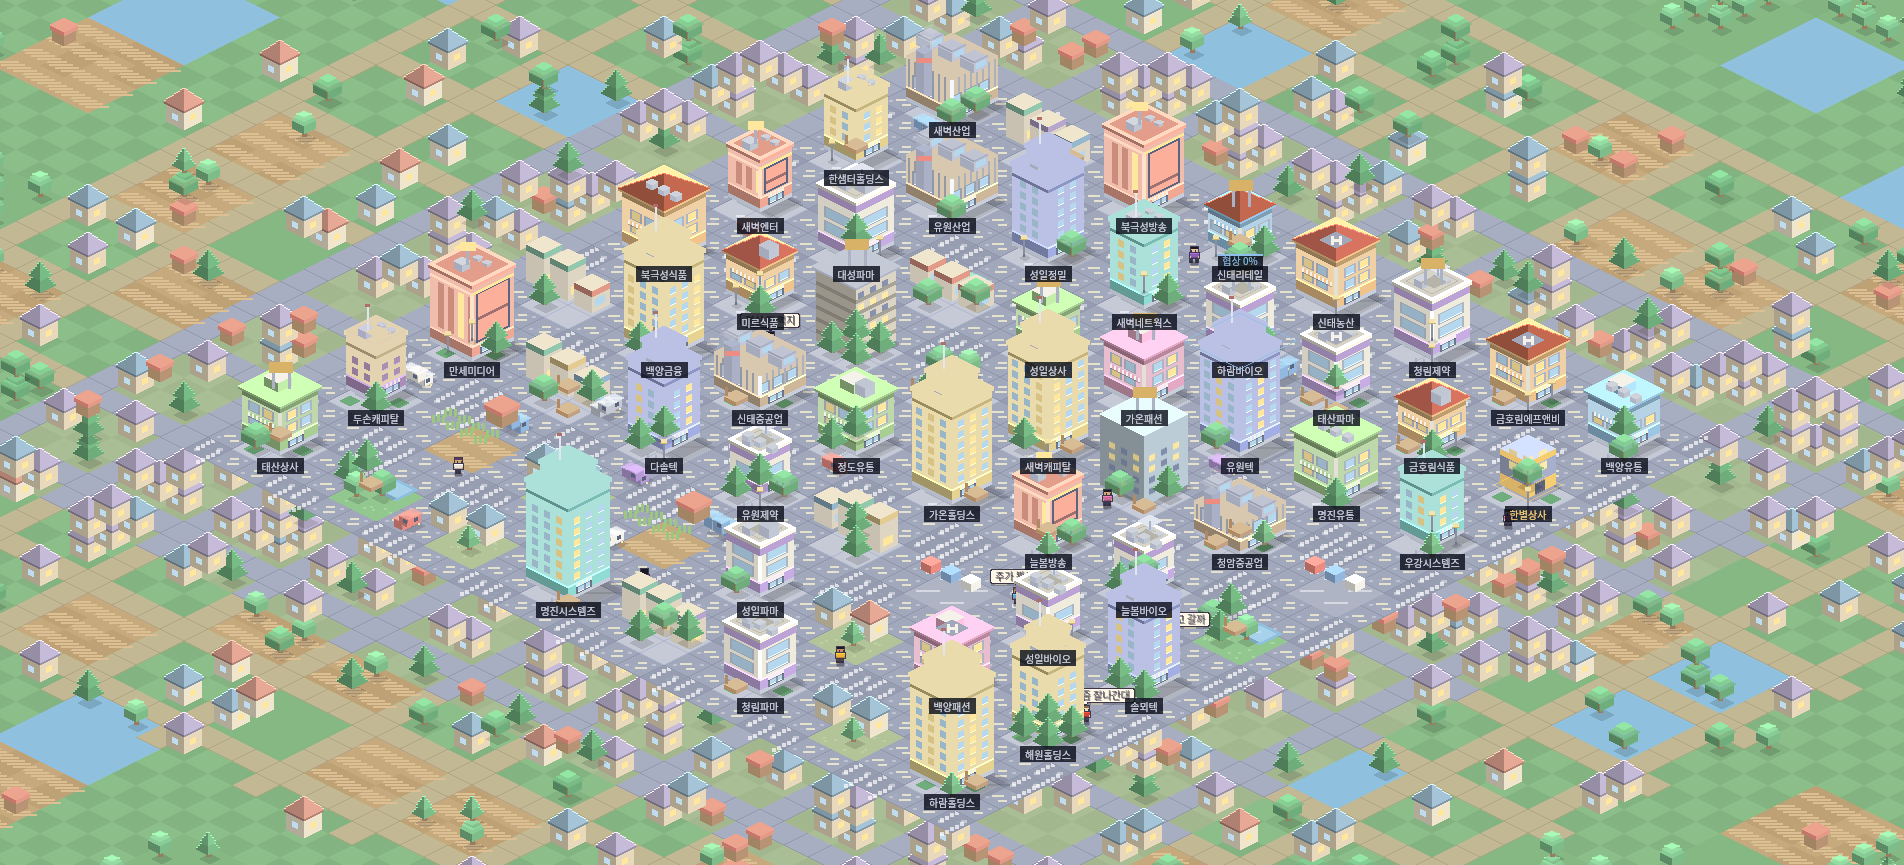
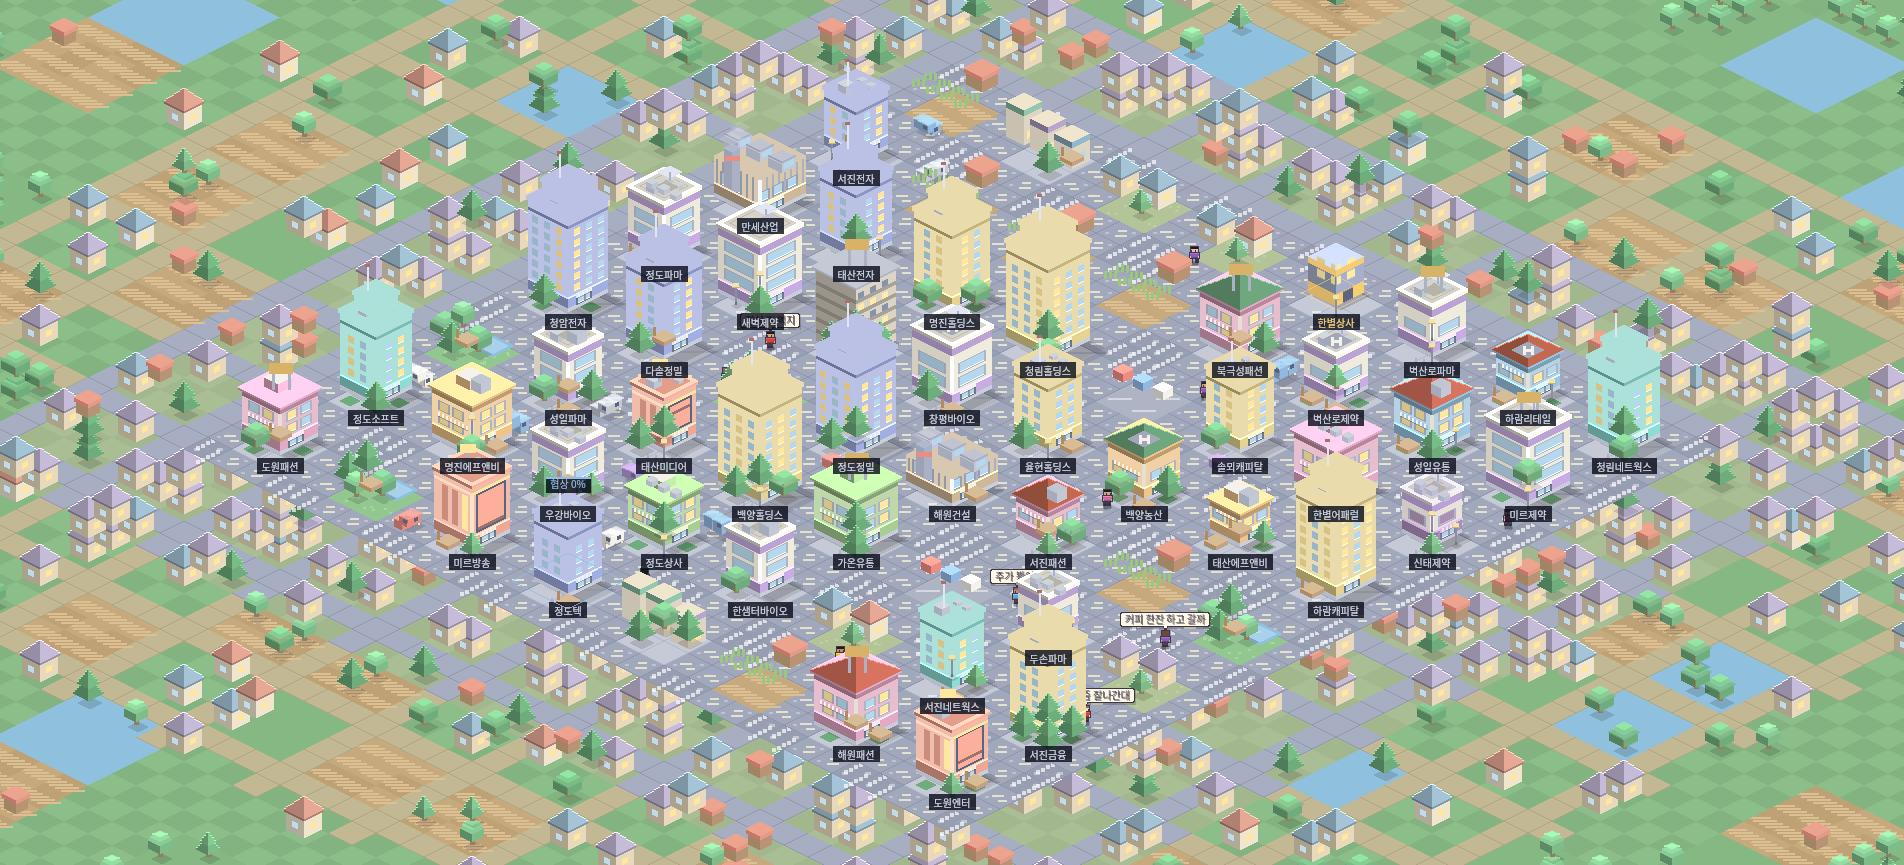
fix: 큰 화면에서 도시가 빈 벌판 위 섬처럼 뜨던 것
2560 급 노트북에서 도시 맵이 화면 가운데 조그맣게 뜨고 가로 46% 가
빈 벌판으로 남았다. 1920 화면에서는 멀쩡해 기기 문제로 보였지만,
원인은 해상도다.

정수 배율만 쓰므로(RENDER.md §3) 1x 다음이 곧바로 2x 다. 그래서
화면이 아무리 커져도 배율이 1x 에 머물렀다. main.css 에 좁은 쪽
브레이크포인트(1320 / 1120)만 있고 넓은 쪽이 비어 있던 것과 같은
구멍이다.

fitZoom() 을 추가해 캔버스 실측값에서 배율을 유도한다. 기준 해상도를
박아 두지 않는다.
- cover : 화면을 덮는 데 필요한 배율. 반올림이라 조금 남는 정도는
          그냥 두고 절반 가까이 빌 때만 한 단 올라간다.
- keep  : 세로를 절반 미만으로 잘라먹지 않는 상한. 초광폭에서 cover
          만 보면 맵이 띠처럼 잘린다.

zoom 은 절대 배율이 아니라 fitPX 에 곱할 배수다. 처음에 절대값을
그대로 넘겼더니 3840x1900 에서 PX 가 6까지 튀어 맵의 40% 만 보였다.
목표에 못 미치더라도 내림한다 — 넘치는 쪽이 더 나쁘다.

휠을 돌린 뒤에는 zoomTouched 가 서서 리사이즈가 배율을 되돌리지
않는다. 직접 맞춰 둔 것을 창 조절이 뒤집으면 더 성가시다.

뷰포트별 실측 (도시 배율 / 월드가 덮는 비율):
  1024x460   1x   150% x 179%
  1366x620   1x   112% x 133%
  1900x740   1x    81% x 111%   (기존과 동일 — 회귀 없음)
  2400x900   2x   128% x 183%
  2856x986   2x   108% x 167%   (문제 화면)
  3840x1900  2x    80% x  87%
  5120x1200  2x    60% x 137%

검증: npm run check 통과, npm run smoke 197 passed / 0 failed,
npm run shot 완주, shots/ 갱신.

Changed region(s): [[0.1239, 0.0312, 0.8986, 0.9364]]

diff --git a/src/render/canvas.js b/src/render/canvas.js
@@ -165,15 +165,49 @@ function applyCamera() {
     else OY = Math.round(CV.height / 2 - camY * PX);
     return;
   }
-  if (camFor !== S) { camFor = S; zoom = 1; camX = w / 2; camY = h / 2; }
+  applyCameraCity(w, h);
+}
+
+/* 맵이 화면보다 작으면 가운데 고정, 크면 가장자리 밖으로 못 나가게 잡는다.
+   여유는 지면 레이어가 구워진 만큼(CITY_PAD)만 허용한다 — 그 밖은 검은 화면이다. */
+
+/**
+ * 지금 화면에 맞는 배율. **환경에서 유도한다 — 기준 해상도를 박아 두지 않는다.**
+ *
+ * 정수 배율만 쓰므로(RENDER.md §3) 1x 다음이 곧바로 2x 다. 그래서 예전에는
+ * 화면이 아무리 커져도 1x 에 머물렀고, 2560 급에서는 월드(1536×824)가 캔버스
+ * 가로의 54% 만 덮어 **도시가 빈 벌판 위의 섬처럼 보였다.** CSS 는 좁은 쪽으로만
+ * 브레이크포인트가 있고 넓은 쪽이 비어 있던 것과 같은 구멍이다.
+ *
+ * 두 값의 작은 쪽을 목표 배율로 삼는다.
+ * - `cover` 화면을 덮는 데 필요한 배율. 반올림이라 조금 남는 정도(1920 화면의
+ *   가로 19%)는 그냥 두고, 절반 가까이 빌 때만 한 단 올라간다.
+ * - `keep`  세로를 절반 미만으로 잘라먹지 않는 상한. 초광폭 화면에서 `cover`
+ *   만 보면 맵이 띠처럼 잘린다.
+ *
+ * 돌려주는 값은 **절대 배율이 아니라 `fitPX` 에 곱할 배수**다. 이걸 헷갈려
+ * 절대값을 그대로 넘겼더니 3840×1900 에서 PX 가 6까지 튀어 맵의 40% 만 보였다.
+ * 목표에 못 미치더라도 내림한다 — 넘치면 화면 밖으로 나가는 쪽이라 더 나쁘다.
+ */
+function fitZoom() {
+  const cover = Math.round(Math.max(CV.width / CITY_W, CV.height / CITY_H));
+  const keep = Math.floor(CV.height / (CITY_H * 0.5));
+  const target = Math.max(1, Math.min(cover, keep));
+  return clamp(Math.max(1, Math.floor(target / fitPX)), ZOOM_MIN, ZOOM_MAX);
+}
+
+/* 창 크기가 바뀌면 다시 맞춘다 — 단 **사용자가 휠을 돌린 뒤로는 건드리지 않는다.**
+   직접 맞춰 둔 배율을 리사이즈가 되돌려 버리면 그게 더 성가시다. */
+let zoomTouched = false;
+
+function applyCameraCity(w, h) {
+  if (camFor !== S) { camFor = S; zoomTouched = false; camX = w / 2; camY = h / 2; }
+  if (!zoomTouched) zoom = fitZoom();
   PX = fitPX * zoom;
   clampCam();
   OX = Math.round(CV.width / 2 - camX * PX);
   OY = Math.round(CV.height / 2 - camY * PX);
 }
-
-/* 맵이 화면보다 작으면 가운데 고정, 크면 가장자리 밖으로 못 나가게 잡는다.
-   여유는 지면 레이어가 구워진 만큼(CITY_PAD)만 허용한다 — 그 밖은 검은 화면이다. */
 function spanClamp(v, half, size, pad) {
   if (half >= size / 2 + pad) return size / 2;
   return clamp(v, half - pad, size - half + pad);
@@ -191,6 +225,7 @@ function zoomBy(dir, ev) {
   if (next === zoom) return;
   const before = ev ? toLogical(ev) : null;
   zoom = next;
+  zoomTouched = true;                              // 이후 리사이즈가 되돌리지 않게
   applyCamera();
   if (before) {
     const after = toLogical(ev);
